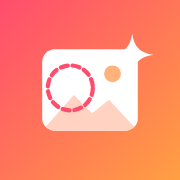
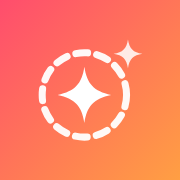
App 圖示改用 C 款（極簡）
Claude-Session: https://claude.ai/code/session_01GKUP6QccNpfJjsuPG4cKcQ

Changed region(s): [[0.1944, 0.1944, 0.8611, 0.8056]]

diff --git a/public/sw.js b/public/sw.js
@@ -1,5 +1,5 @@
 // 只快取 App 外殼；/api 一律走網路
-const CACHE = 'photo-eraser-v8';
+const CACHE = 'photo-eraser-v9';
 const SHELL = ['./', 'index.html', 'style.css', 'app.js', 'manifest.webmanifest', 'icon.svg', 'icon-180.png', 'icon-192.png', 'icon-512.png'];
 self.addEventListener('install', e => { e.waitUntil(caches.open(CACHE).then(c => c.addAll(SHELL))); self.skipWaiting(); });
 self.addEventListener('activate', e => {
